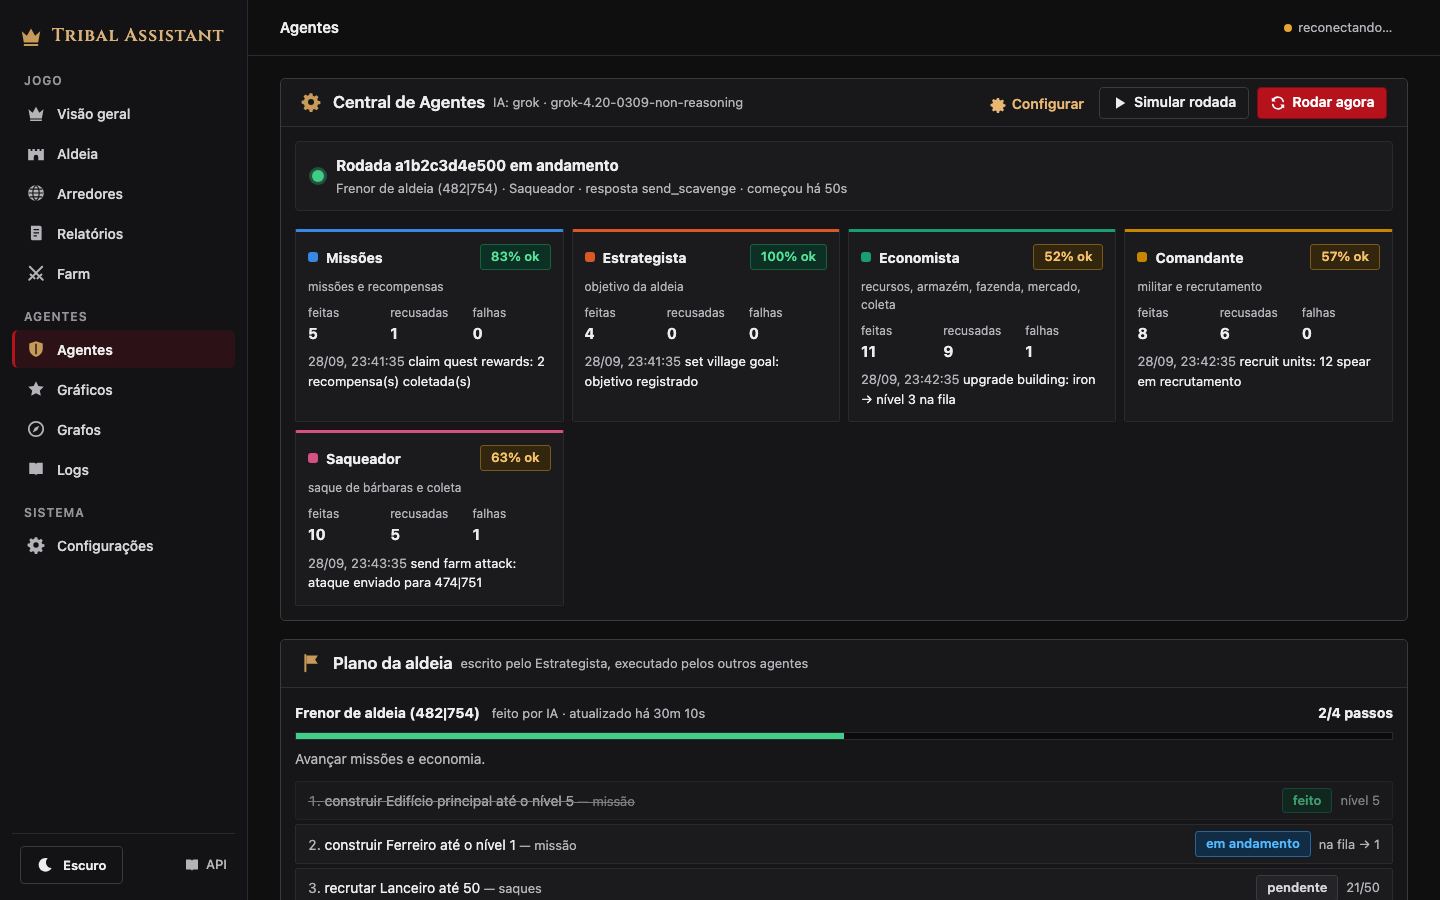
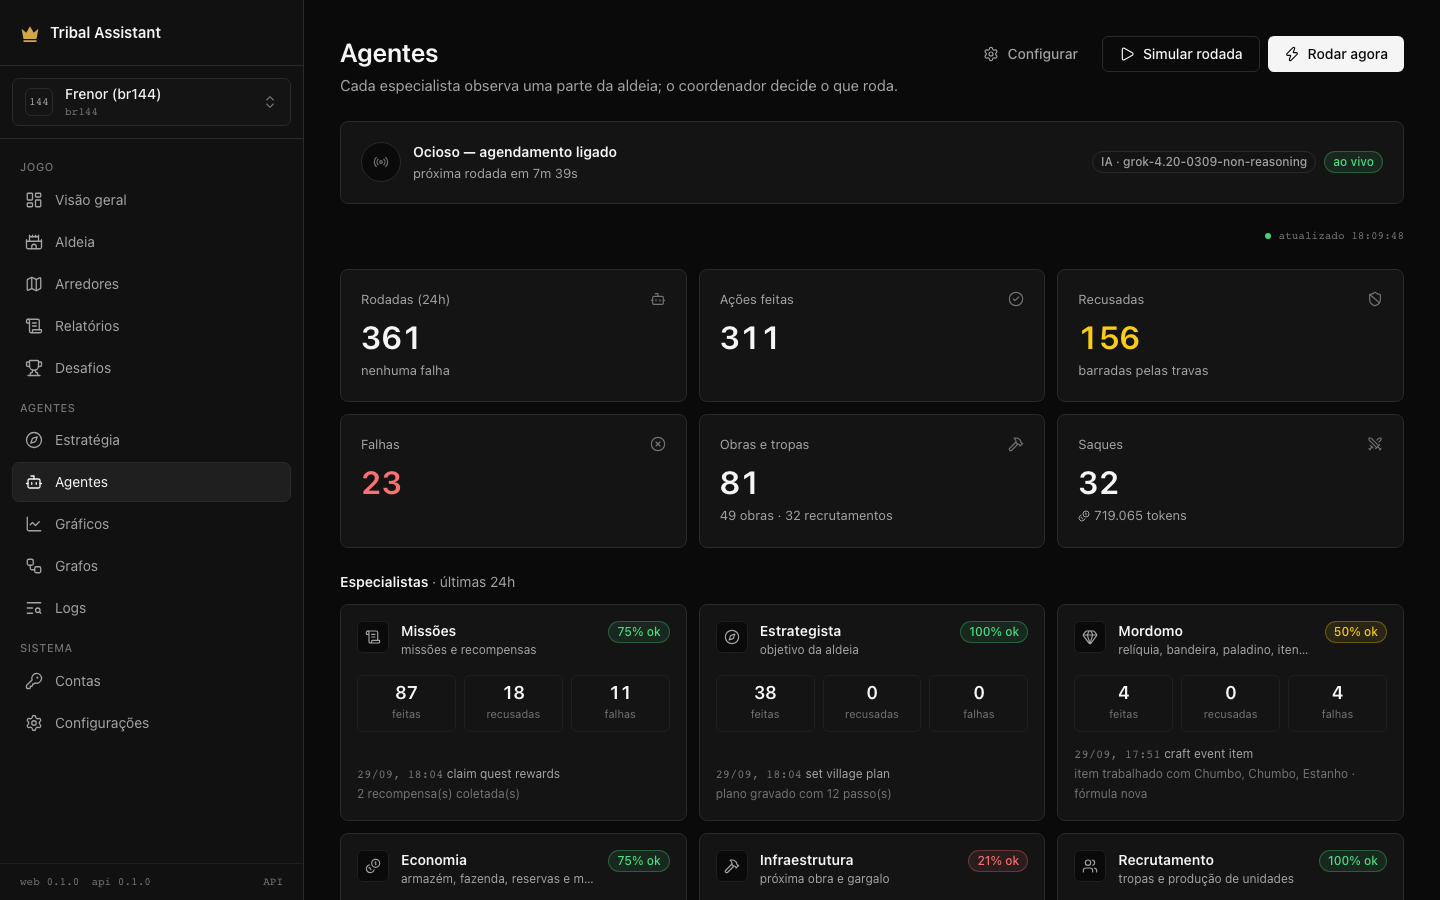
docs: screenshots of the new panel

diff --git a/README.md b/README.md
@@ -5,21 +5,23 @@
 [![Playwright](https://img.shields.io/badge/Playwright-browser-2EAD33?logo=playwright&logoColor=white)](https://playwright.dev/python/)
 [![Conventional Commits](https://img.shields.io/badge/Conventional%20Commits-1.0.0-FE5196?logo=conventionalcommits&logoColor=white)](https://www.conventionalcommits.org/en/v1.0.0/)
 
-**Tribal Assistant** is an open-source Python assistant for the browser strategy game **Tribal Wars** (Guerra Tribal / Die Stämme). It plays your accounts through a real browser session: village agents decide builds, troops, raids, scavenging, trades, quests, the event forge, tribe and mentor, while a coordinator weighs their proposals. Everything they see and decide is stored in the database (SQLite or PostgreSQL) and shown in a Next.js panel with light and dark mode.
+**Tribal Assistant** is an open-source Python assistant for the browser strategy game **Tribal Wars** (Guerra Tribal / Die Stämme). It plays your accounts through a real browser session: village agents decide builds, troops, raids, scavenging, trades, quests, the event forge, tribe and mentor, while a coordinator weighs their proposals. Everything they see and decide is stored in the database (SQLite or PostgreSQL) and shown in a Next.js panel that works on desktop and phone.
 
 Use it as a **server** (`tribal-assistant serve` plus the panel in `apps/web`), a **CLI** (`tribal-assistant`), a **Python library** (`import tribal_assistant`) or an **MCP server** for AI clients.
 
-| Light | Dark |
-|-------|------|
-| ![Tribal Assistant dashboard, light theme](docs/screenshots/dashboard-light.png) | ![Tribal Assistant dashboard, dark theme](docs/screenshots/dashboard-dark.png) |
+| Overview | Strategy |
+|----------|----------|
+| ![Overview](docs/screenshots/overview.png) | ![Strategy](docs/screenshots/strategy.png) |
 
-| Agents | Settings |
-|--------|----------|
-| ![Agents page](docs/screenshots/agents.png) | ![Settings page](docs/screenshots/settings.png) |
+| Agents | Challenges |
+|--------|------------|
+| ![Agents](docs/screenshots/agents.png) | ![Challenges](docs/screenshots/challenges.png) |
 
-| Decision graph | Charts |
-|----------------|--------|
-| ![Decision graph](docs/screenshots/graph.png) | ![Charts](docs/screenshots/charts.png) |
+| Charts | Decision graph |
+|--------|----------------|
+| ![Charts](docs/screenshots/charts.png) | ![Decision graph](docs/screenshots/graph.png) |
+
+<p align="center"><img src="docs/screenshots/mobile.png" alt="Overview on a phone" width="260"></p>
 
 ## Features
 
@@ -31,7 +33,7 @@ Use it as a **server** (`tribal-assistant serve` plus the panel in `apps/web`), 
 - **Scavenging** — shows each scavenge option, its return time and unlock state.
 - **Incoming attack alerts** — highlights attacks and nobles heading to your villages.
 - **Scheduler** — APScheduler jobs with jitter and configurable quiet hours.
-- **Panel** — Next.js app in `apps/web`: responsive, keyboard accessible, light and dark themes, paginated lists, in-app confirmations.
+- **Panel** — Next.js app in `apps/web`: responsive, keyboard accessible, dark theme, paginated lists, in-app confirmations.
 - **REST API** — FastAPI with OpenAPI docs at `/docs`.
 
 ## Install
